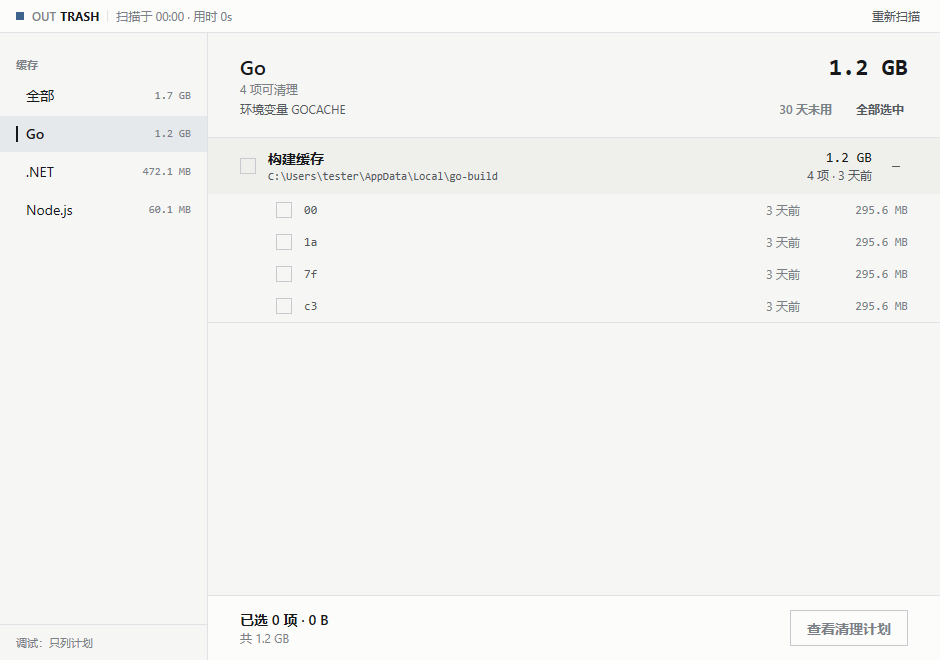
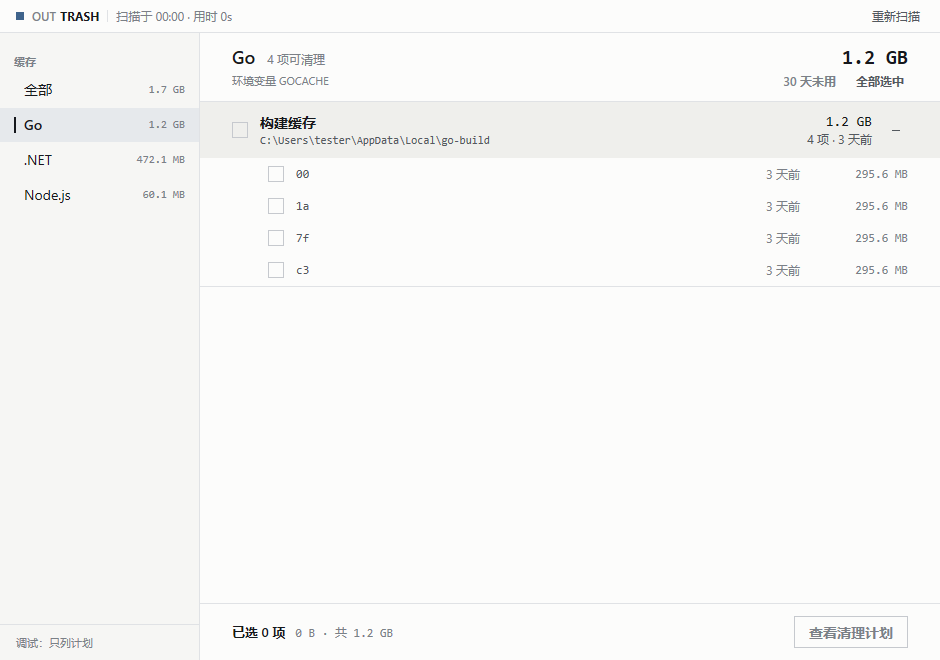
layout: compact list-first frame (#41)
Header drops to 68px with title, count and total on one line, and the
source plus presets on an 11px second line. Overview rows are 56px with
fixed count and size columns so families align down the page; the rail
narrows to 200px at 34px rows and the action bar to 56px.

diff --git a/ui.go b/ui.go
@@ -379,7 +379,7 @@ func (a *app) view(c *ui.Context) {
 		a.titleBar(c)
 		ui.Row(c).Grow(1).Children(func() {
 			a.rail(c)
-			ui.Column(c).Grow(1).FillHeight().Children(func() {
+			ui.Column(c).Grow(1).FillHeight().Background(a.pal.Raised).Children(func() {
 				a.header(c)
 				a.list(c)
 				a.actionBar(c)
@@ -453,9 +453,9 @@ func (a *app) summary() string {
 
 func (a *app) rail(c *ui.Context) {
 	p := a.pal
-	ui.Column(c).Width(208).FillHeight().BorderWidth(0, 1, 0, 0).BorderColor(p.Rule).
+	ui.Column(c).Width(200).FillHeight().BorderWidth(0, 1, 0, 0).BorderColor(p.Rule).
 		Children(func() {
-			ui.Column(c).Padding(16, 0, 0, 0).Gap(2).Children(func() {
+			ui.Column(c).Padding(14, 0, 0, 0).Gap(1).Children(func() {
 				a.section(c, "缓存")
 				a.railRow(c, "", "全部", a.totalSize())
 				for _, g := range a.groups {
@@ -478,7 +478,7 @@ func (a *app) rail(c *ui.Context) {
 
 func (a *app) section(c *ui.Context, label string) {
 	p := a.pal
-	ui.Text(c, label).FontSize(11).FontWeight(600).TextColor(p.Ink3).Padding(8, 0, 4, 16)
+	ui.Text(c, label).FontSize(11).FontWeight(600).TextColor(p.Ink3).Padding(7, 0, 3, 14)
 }
 
 func (a *app) railNote() string {
@@ -500,7 +500,7 @@ func (a *app) railRow(c *ui.Context, id, label string, size int64) {
 	if on {
 		resting = p.Selected
 	}
-	row := ui.Row(c).Height(36).Padding(0, 16).Gap(8).AlignItems(ui.Center).
+	row := ui.Row(c).Height(34).Padding(0, 14).Gap(8).AlignItems(ui.Center).
 		Cursor(ui.CursorPointer).OnClick(func() { a.selected = id })
 	row.Background(hoverFill(row, resting, p.Hover))
 	row.Children(func() {
@@ -539,7 +539,7 @@ func weight(on bool) int {
 func (a *app) header(c *ui.Context) {
 	p := a.pal
 	g, ok := a.group(a.selected)
-	title, total, sub := "可清理", a.totalSize(), fmt.Sprintf("%d 个缓存 · 用时 %s", a.totalCount(), a.elapsed())
+	title, total, sub := "可清理", a.totalSize(), fmt.Sprintf("%d 个缓存 · %d 项", a.totalCount(), a.totalLeaves())
 	var picks []core.Pick
 	if ok {
 		title, total = g.group.Name, g.size
@@ -547,20 +547,19 @@ func (a *app) header(c *ui.Context) {
 		sub = fmt.Sprintf("%d 项可清理", sumCount(g))
 	}
 	ui.Column(c).Shrink(0).Children(func() {
-		ui.Row(c).Height(104).Children(func() {
+		ui.Row(c).Height(68).Children(func() {
 			ui.Spacer(c)
-			ui.Column(c).Width(a.contentWidth(c)).Padding(16, 32, 12, 32).Children(func() {
+			ui.Column(c).Width(a.contentWidth(c)).Padding(11, 32, 8, 32).Justify(ui.Center).Children(func() {
 				ui.Row(c).Gap(12).AlignItems(ui.Baseline).Children(func() {
-					ui.Text(c, title).FontSize(20).FontWeight(600).TextColor(p.Ink).Grow(1).SingleLine()
-					ui.Text(c, core.Bytes(total)).Font(core.Mono()).FontSize(24).FontWeight(600).TextColor(p.Ink).Shrink(0)
+					ui.Text(c, title).FontSize(18).FontWeight(600).TextColor(p.Ink).SingleLine().Shrink(0)
+					ui.Text(c, sub).FontSize(12).TextColor(p.Ink3).SingleLine().Grow(1)
+					ui.Text(c, core.Bytes(total)).Font(core.Mono()).FontSize(20).FontWeight(600).TextColor(p.Ink).Shrink(0)
 				})
-				ui.Text(c, sub).FontSize(12).TextColor(p.Ink3).SingleLine()
-				ui.Spacer(c)
-				ui.Row(c).Gap(16).AlignItems(ui.Center).Children(func() {
-					ui.Text(c, a.headerSource(g, ok)).FontSize(12).TextColor(p.Ink2).SingleLine().Grow(1)
+				ui.Row(c).Height(24).Gap(12).AlignItems(ui.Center).Children(func() {
+					ui.Text(c, a.headerSource(g, ok)).FontSize(11).TextColor(p.Ink3).SingleLine().Grow(1)
 					if n := a.warnCount(g, ok); n > 0 {
 						ui.Text(c, fmt.Sprintf("%d 个缓存读取失败", n)).
-							FontSize(12).FontWeight(600).TextColor(p.Danger).Shrink(0)
+							FontSize(11).FontWeight(600).TextColor(p.Danger).Shrink(0)
 					}
 					for _, act := range a.presets(picks) {
 						a.chip(c, act)
@@ -577,7 +576,7 @@ func (a *app) header(c *ui.Context) {
 // put and the measure does not balloon.
 func (a *app) contentWidth(c *ui.Context) float32 {
 	w, _ := c.Size()
-	return min(w-208, 900)
+	return min(w-200, 900)
 }
 
 // headerSource says where this family's caches came from: a default, an
@@ -623,16 +622,8 @@ func (a *app) warnCount(g groupState, ok bool) int {
 	return n
 }
 
-func (a *app) elapsed() string {
-	if a.cache == nil {
-		return "—"
-	}
-	return a.cache.Elapsed.Round(time.Millisecond).String()
-}
-
 func (a *app) list(c *ui.Context) {
-	p := a.pal
-	ui.Scroll(c).Grow(1).Background(p.Canvas).Children(func() {
+	ui.Scroll(c).Grow(1).Children(func() {
 		ui.Row(c).Children(func() {
 			ui.Spacer(c)
 			ui.Column(c).Width(a.contentWidth(c)).Padding(0, 0, 16, 0).Children(func() {
@@ -661,21 +652,21 @@ func (a *app) overview(c *ui.Context) {
 		n++
 		g := g
 		size := g.size
-		row := ui.Row(c).Height(64).Padding(0, 32).Gap(16).AlignItems(ui.Center).
+		row := ui.Row(c).Height(56).Padding(0, 32).Gap(16).AlignItems(ui.Center).
 			Cursor(ui.CursorPointer).OnClick(func() { a.selected = g.group.ID })
 		row.Background(hoverFill(row, ui.Transparent, p.Hover))
 		row.Children(func() {
-			ui.Column(c).Grow(1).Gap(2).Children(func() {
-				ui.Text(c, g.group.Name).FontSize(14).FontWeight(600).TextColor(p.Ink).SingleLine()
-				ui.Text(c, fmt.Sprintf("%d 个缓存 · %d 项", len(g.items), sumCount(g))).
-					FontSize(12).TextColor(p.Ink2).SingleLine()
-			})
-			ui.Text(c, core.Bytes(size)).Font(core.Mono()).FontSize(14).TextColor(p.Ink).Shrink(0)
+			ui.Text(c, g.group.Name).FontSize(14).FontWeight(600).TextColor(p.Ink).SingleLine().Grow(1)
+			// Fixed columns keep counts and sizes in one rule down the page.
+			ui.Text(c, fmt.Sprintf("%d 个缓存 · %d 项", len(g.items), sumCount(g))).
+				FontSize(12).TextColor(p.Ink3).SingleLine().Width(180).TextAlign(ui.End).Shrink(0)
+			ui.Text(c, core.Bytes(size)).Font(core.Mono()).FontSize(13).TextColor(p.Ink).
+				Width(96).TextAlign(ui.End).Shrink(0)
 		})
 		ui.Box(c).Height(1).Shrink(0).Background(p.Rule)
 	}
 	if n == 0 {
-		ui.Column(c).Padding(48, 32).Gap(6).Children(func() {
+		ui.Column(c).Padding(44, 32).Gap(6).Children(func() {
 			ui.Text(c, "没有找到可清理的缓存").FontSize(14).FontWeight(600).TextColor(p.Ink)
 			ui.Text(c, "已检查环境变量与各工具的默认位置").FontSize(12).TextColor(p.Ink3)
 		})
@@ -702,7 +693,7 @@ func (a *app) family(c *ui.Context, g groupState) {
 func (a *app) skeleton(c *ui.Context) {
 	p := a.pal
 	for range 3 {
-		ui.Column(c).Height(64).Padding(0, 32).Children(func() {
+		ui.Column(c).Height(56).Padding(0, 32).Children(func() {
 			ui.Box(c).Size(160, 12).Shrink(0).Background(p.Hover)
 		})
 	}
@@ -724,6 +715,14 @@ func (a *app) totalCount() int {
 	return n
 }
 
+func (a *app) totalLeaves() int {
+	n := 0
+	for _, g := range a.groups {
+		n += sumCount(g)
+	}
+	return n
+}
+
 // actionBar is the strip that turns a selection into the one action that
 // matters. It is a bar, not a floating pill: native windows do not float.
 func (a *app) actionBar(c *ui.Context) {
@@ -735,13 +734,14 @@ func (a *app) actionBar(c *ui.Context) {
 	}
 	ui.Column(c).Shrink(0).Children(func() {
 		ui.Box(c).Height(1).Shrink(0).Background(p.Rule)
-		ui.Row(c).Height(64).Background(p.Raised).Children(func() {
+		ui.Row(c).Height(56).Background(p.Raised).Children(func() {
 			ui.Spacer(c)
 			ui.Row(c).Width(a.contentWidth(c)).Padding(0, 32).Gap(16).AlignItems(ui.Center).Children(func() {
-				ui.Column(c).Grow(1).Gap(2).Children(func() {
-					ui.Text(c, fmt.Sprintf("已选 %d 项 · %s", n, core.Bytes(bytes))).
-						FontSize(14).FontWeight(600).TextColor(p.Ink).SingleLine()
-					ui.Text(c, fmt.Sprintf("共 %s", core.Bytes(total))).FontSize(12).TextColor(p.Ink3).SingleLine()
+				ui.Row(c).Gap(10).AlignItems(ui.Baseline).Grow(1).Children(func() {
+					ui.Text(c, fmt.Sprintf("已选 %d 项", n)).
+						FontSize(13).FontWeight(600).TextColor(p.Ink).SingleLine().Shrink(0)
+					ui.Text(c, fmt.Sprintf("%s · 共 %s", core.Bytes(bytes), core.Bytes(total))).
+						Font(core.Mono()).FontSize(12).TextColor(p.Ink3).SingleLine()
 				})
 				if n > 0 {
 					clear := ui.ButtonBase(c).Padding(6, 10).Cursor(ui.CursorPointer)
@@ -763,7 +763,7 @@ func (a *app) primaryButton(c *ui.Context, label string, enabled bool, fn func()
 	if !enabled {
 		bg, fg = ui.Transparent, p.Ink3
 	}
-	btn := ui.ButtonBase(c).Height(36).Padding(0, 16).Background(bg).Shrink(0).AlignItems(ui.Center)
+	btn := ui.ButtonBase(c).Height(32).Padding(0, 14).Background(bg).Shrink(0).AlignItems(ui.Center)
 	if enabled {
 		btn.Cursor(ui.CursorPointer)
 	} else {
